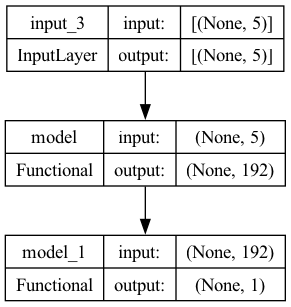
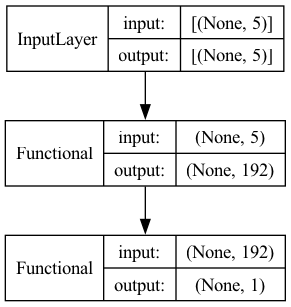
update the app and workflow gif

diff --git a/Software/software-modular-GUI/app.py b/Software/software-modular-GUI/app.py
@@ -7,9 +7,12 @@ Created on Wed Jun 25 02:47:14 2025
 
 # app.py
 import streamlit as st
+#import streamlit.web.bootstrap
+
 import pandas as pd
 import numpy as np
 import os
+import base64
 
 from scaling_utils import Scaling
 from model_utils import AutoencoderModel, step_decay_schedule, StreamlitProgressCallback
@@ -18,12 +21,14 @@ from visualize import PlotlyVisualizer
 from sklearn.model_selection import train_test_split
 from tensorflow.keras.utils import plot_model
 
+st.set_page_config(page_title="DataScribe GUI", layout="wide")
+
 # CSS styling
 st.markdown("""
     <style>
     /* Main app background and font */
     .block-container {
-        #background-color: #FFFBEC;
+        /* background-color: #FFFBEC; */
         font-family: 'Segoe UI', sans-serif;
     }
 
@@ -100,12 +105,18 @@ st.markdown("""
         display: flex;
         justify-content: center;
     }
+
+    input[type="number"] {
+        font-size: 20px !important;
+    }
+    
     </style>
 """, unsafe_allow_html=True)
 
 
-import base64
-
+#if __name__ == "__main__":
+#    streamlit.web.bootstrap.run(__file__, '', [], {})
+    
 file_path = "assets/app-icon.png"
 with open(file_path, "rb") as f:
     data = f.read()
@@ -122,7 +133,6 @@ st.markdown(
 
 
 os.makedirs("results", exist_ok=True)
-st.set_page_config(page_title="Autoencoder Trainer", layout="wide")
 
 st.markdown("""
     <h1 style='font-size: 40px; text-align: center; font-weight: bold;'>
@@ -301,10 +311,19 @@ if df is not None:
             #st.code(summary_string, language="text")
             
             # Save model plot
-            plot_model(model.autoencoder, to_file="results/model_architecture.png", show_shapes=True, show_layer_names=True)
+            with st.container(border=True):
+                # Save model plots
+                #plot_model(model.autoencoder, to_file="results/model_architecture.png", show_shapes=True, show_layer_names=False)
+                plot_model(model.encoder, to_file="results/encoder_architecture.png", show_shapes=True, show_layer_names=False, rankdir='LR')
+                plot_model(model.decoder, to_file="results/decoder_architecture.png", show_shapes=True, show_layer_names=False, rankdir='LR')
             
-            # Show in Streamlit
-            st.image("results/model_architecture.png", caption="Model Architecture", width=350)
+                # Show main autoencoder plot
+                #st.image("results/model_architecture.png", caption="Model Architecture", width=350)
+            
+                # Show encoder & decoder side by side
+                st.write("## Encoder & Decoder Architectures")
+                st.image("results/encoder_architecture.png", caption="Encoder Architecture", use_container_width=True)
+                st.image("results/decoder_architecture.png", caption="Decoder Architecture", use_container_width=True)
             
             st.sidebar.header("Step 7: Training Config")
             epochs = st.sidebar.slider("Epochs", 10, 300, 150, step=10)
@@ -316,8 +335,6 @@ if df is not None:
                 status_text = st.empty()
                 
                 st.write("### Training Autoencoder...")
-
-
                 
                 callbacks = [
                     step_decay_schedule(),
@@ -329,8 +346,8 @@ if df is not None:
                 history = model.train(X_train, y_train, epochs=epochs, batch_size=batch_size, callbacks=callbacks)
 
                 st.success("Model training complete.")
-                #Visualizer.plot_loss(history, filename="results/loss_streamlit_run.jpg", log_scale=False)
-                PlotlyVisualizer.plot_loss(history, log_scale=False)
+                Visualizer.plot_loss(history, filename="results/loss_streamlit_run.jpg", log_scale=False)
+                #PlotlyVisualizer.plot_loss(history, log_scale=False)
 
                 #if os.path.exists("results/loss_streamlit_run.jpg"):
                 #    st.image("results/loss_streamlit_run.jpg", caption="Loss Plot", use_container_width=True)
@@ -339,31 +356,86 @@ if df is not None:
                 _, y_test_inv = scaler.inverse_scale_data(X_test, y_test, apply_log1p=apply_log1p, apply_sigmoid=apply_sigmoid)
                 _, y_pred_inv = scaler.inverse_scale_data(X_test, y_pred, apply_log1p=apply_log1p, apply_sigmoid=apply_sigmoid)
 
-                #PlotlyVisualizer.scatter_plot(y_test, y_pred, filename="results/scatter_scaled.jpg", log_scale=False)
-                #PlotlyVisualizer.scatter_plot(y_test_inv, y_pred_inv, filename="results/scatter_original.jpg", log_scale=True)
-                PlotlyVisualizer.scatter_plot(y_test, y_pred, log_scale=False)
-                PlotlyVisualizer.scatter_plot(y_test_inv, y_pred_inv, log_scale=True)
+                Visualizer.scatter_plot(y_test, y_pred, filename="results/scatter_scaled.jpg", log_scale=False)
+                Visualizer.scatter_plot(y_test_inv, y_pred_inv, filename="results/scatter_original.jpg", log_scale=True)
+                #PlotlyVisualizer.scatter_plot(y_test, y_pred, log_scale=False)
+                #PlotlyVisualizer.scatter_plot(y_test_inv, y_pred_inv, log_scale=True)
 
                 st.session_state["model_trained"] = True
                 st.session_state["y_test_inv"] = y_test_inv
                 st.session_state["y_pred_inv"] = y_pred_inv
+                
 
 # --- Persisted Outputs ---
 if st.session_state.get("model_trained", False):
-    if os.path.exists("results/loss_streamlit_run.jpg"):
-        st.image("results/loss_streamlit_run.jpg", caption="Loss Plot", width=900)
+    #if os.path.exists("results/loss_streamlit_run.jpg"):
+    #    st.image("results/loss_streamlit_run.jpg", caption="Loss Plot", width=900)
 
 
-    col1, col2 = st.columns(2)
+    col1, col2, col3 = st.columns([0.7, 0.7, 0.7], gap='large')
     
     with col1:
+        if os.path.exists("results/loss_streamlit_run.jpg"):
+            st.image("results/loss_streamlit_run.jpg", caption="Training History", use_container_width=True)
+    with col2:
         if os.path.exists("results/scatter_scaled.jpg"):
             st.image("results/scatter_scaled.jpg", caption="Scatter Plot (Scaled Space)", use_container_width=True)    
-    with col2:
+    with col3:
         if os.path.exists("results/scatter_original.jpg"):
             st.image("results/scatter_original.jpg", caption="Scatter Plot (Original Space, Log)", use_container_width=True)
 
+    # --- User Prediction ---
+    if st.session_state.get("model_trained", False):
+        # --- Predict on new user inputs
+        st.header("🔎 Predict for New Inputs")
+        scaler = st.session_state["scaler"]
+        input_values = []
+        
+        st.markdown("<div style='font-size:20px; font-weight:600;'>Enter values for input features:</div>", unsafe_allow_html=True)
+        
+        for i in range(0, len(input_columns), 3):
+            cols = st.columns(3)
+            for j, feature in enumerate(input_columns[i:i+3]):
+                with cols[j]:
+                    st.markdown(f"<div style='font-size:24px; font-weight:600'>{feature}</div>", unsafe_allow_html=True)
+                    val = st.number_input(f"{feature}", value=float(df[feature].mean()), key=f"{feature}_input", label_visibility="collapsed")
+                    input_values.append(val)
+        
+        input_array = np.array(input_values).reshape(1, -1)
+        
+        # Scale exactly like during training
+        input_scaled = input_array
+        if scaler.pt_inputs:
+            input_scaled = scaler.pt_inputs.transform(input_scaled)
+        if scaler.qt_inputs:
+            input_scaled = scaler.qt_inputs.transform(input_scaled)
+        if scaler.input_scaler:
+            input_scaled = scaler.input_scaler.transform(input_scaled)
+        if apply_log1p:
+            input_scaled = np.log1p(input_scaled)
+        if apply_sigmoid:
+            input_scaled = 1 / (1 + np.exp(-input_scaled))
+        
+        # Predict
+        pred_scaled = model.predict(input_scaled)
+        
+        # Inverse scale to original space
+        pred_output = pred_scaled
+        if scaler.output_scaler:
+            pred_output = scaler.output_scaler.inverse_transform(pred_output)
+        if scaler.qt_outputs:
+            pred_output = scaler.qt_outputs.inverse_transform(pred_output)
+        if scaler.pt_outputs:
+            pred_output = scaler.pt_outputs.inverse_transform(pred_output)
+        if apply_log1p:
+            pred_output = np.expm1(pred_output)
+        if apply_sigmoid:
+            pred_output = -np.log((1 / pred_output) - 1)
+        
+        st.success(f"Predicted {output_columns[0]}: {pred_output.flatten()[0]:.5f}")
+        
 
+    
 
     download_df = pd.DataFrame({
         "True": st.session_state["y_test_inv"][:, 0],

diff --git a/README.md b/README.md
@@ -177,6 +177,7 @@ The repository implements and benchmarks the following models:
 - 🎛 Use the provided graphical interface to train models on any dataset with custom hyperparameters.
 - 🧑💻 This serves as a hands-on sandbox for students and practitioners to explore and understand different aspects of machine learning models.
 
+![Demo](software/software-modular-GUI/DataScribeTabularLearning-app-mov2.gif)
 
 ---
 
